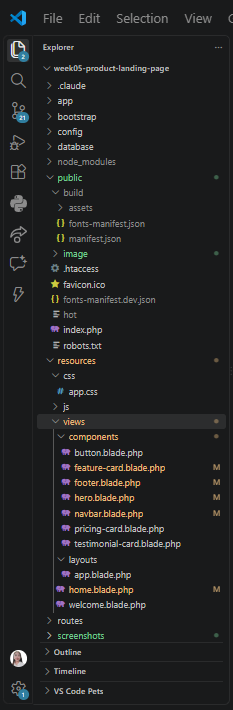
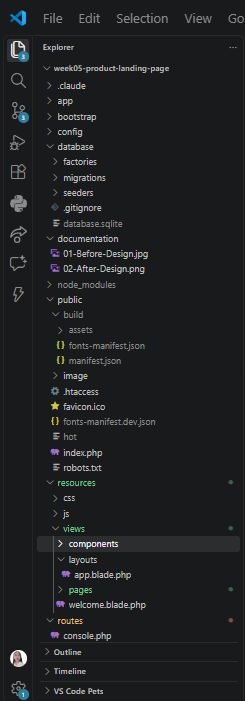
docs: add new project screenshots

diff --git a/routes/web.php b/routes/web.php
@@ -3,5 +3,5 @@
 use Illuminate\Support\Facades\Route;
 
 Route::get('/', function () {
-    return view('home');
+    return view('pages.home');
 });
